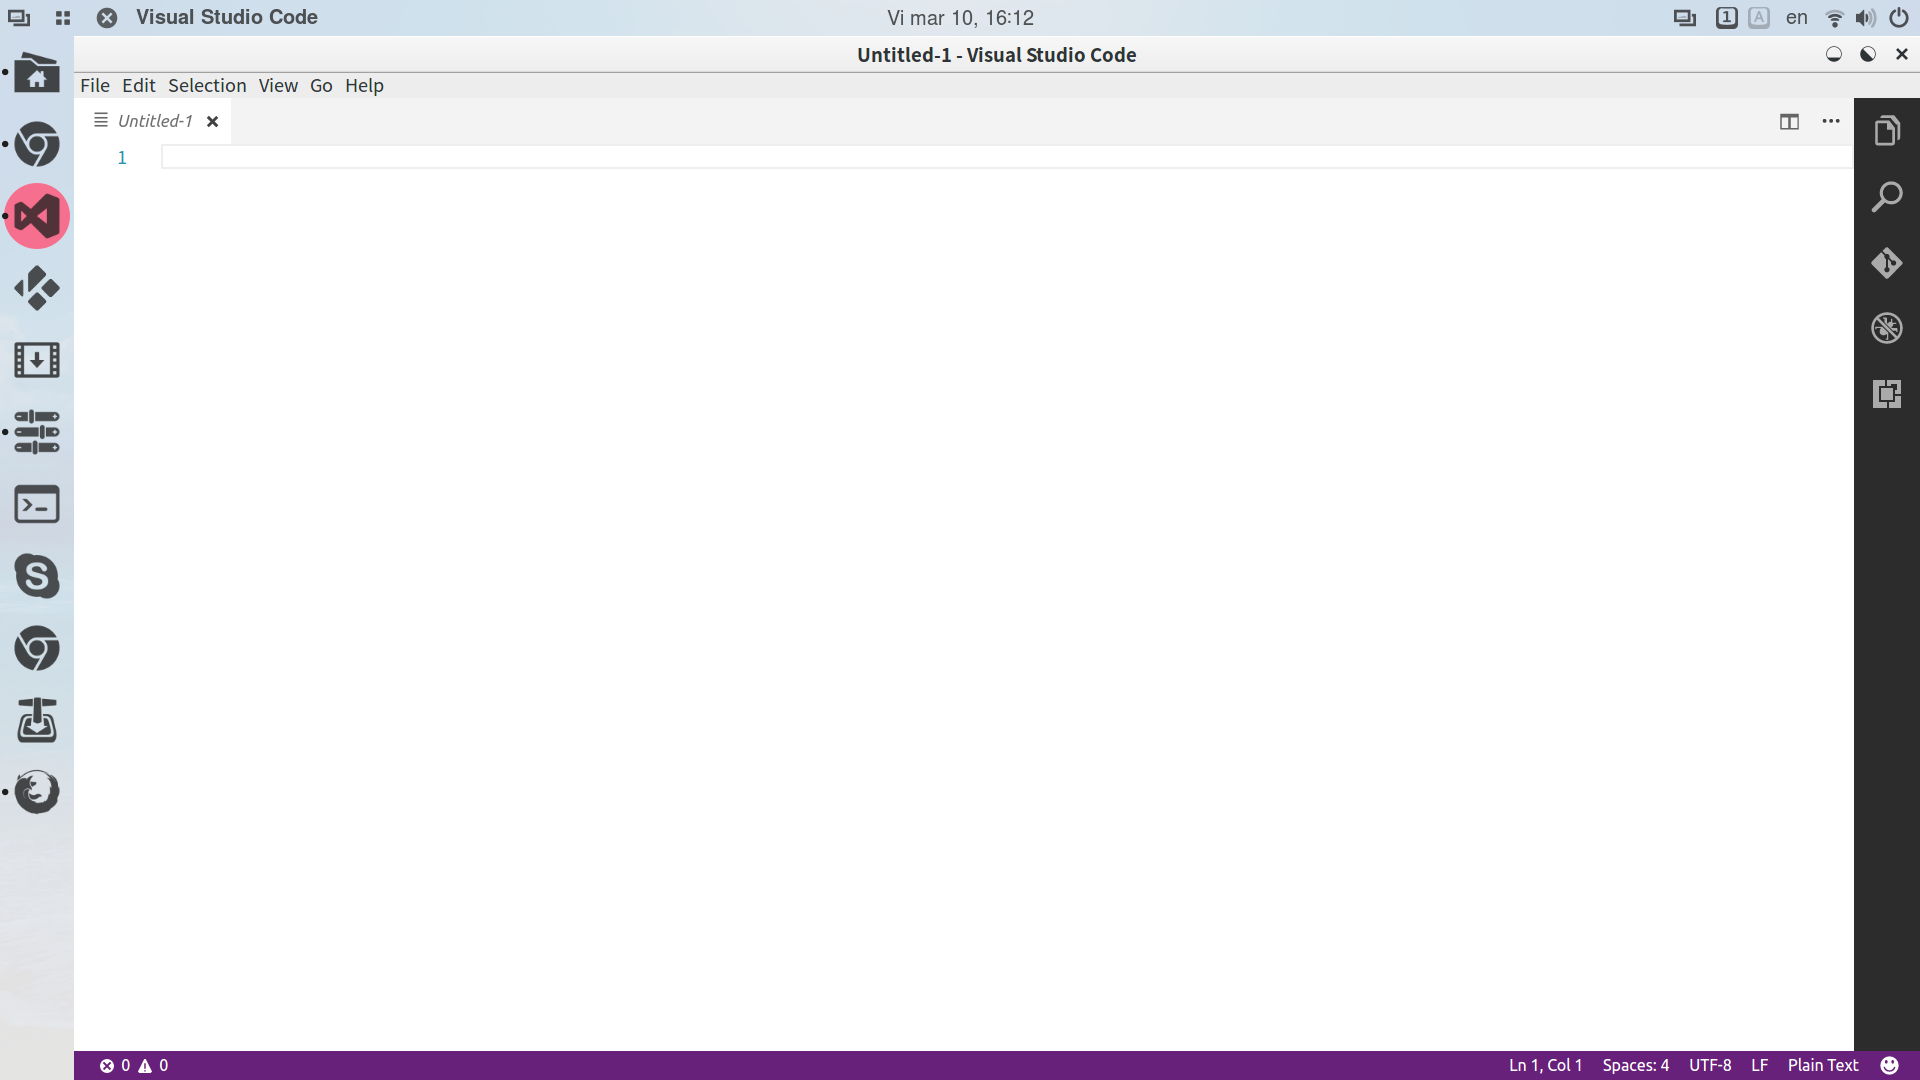
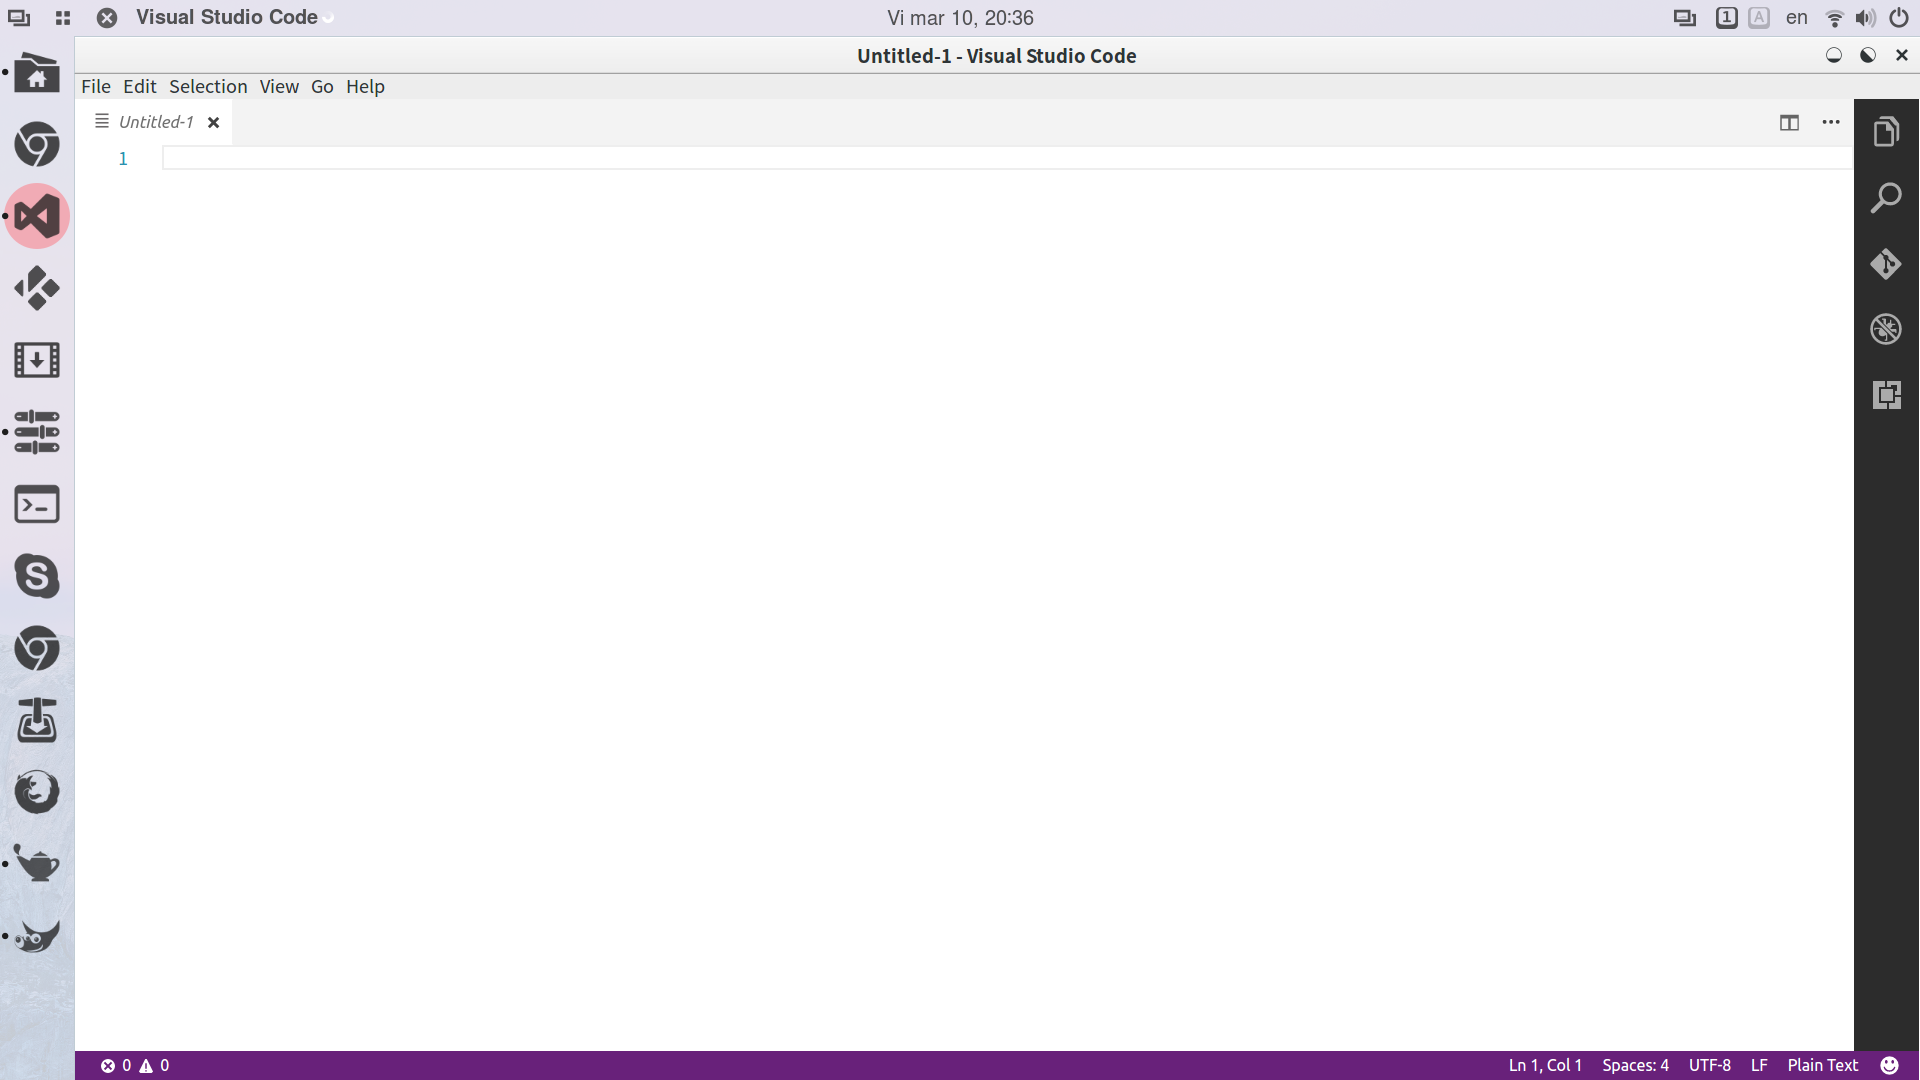
accent colors: pink-reddish

diff --git a/.config/gtk-3.0/gtk.css b/.config/gtk-3.0/gtk.css
@@ -1,235 +1,10 @@
-.window-frame {
-	border-radius: 0;
-	/*border-left: 10px solid #ffbb7c;*/
-/*
-	border-left: 1px solid #e1e1e1;
-	border-right: 1px solid #e1e1e1;
-	border-bottom: 1px solid #e1e1e1;
-*/
-}
-
 .window-frame.maximized {
-
-}
-
-.titlebar {
 	border-radius: 0;
-/*
-	border-left: 1px solid #e1e1e1;
-	border-right: 1px solid #e1e1e1;
-	border-top: 1px solid #e1e1e1;
-*/
-}
-
-.header-bar {
-/*
-  background-image: none;
-*/
-  /*background-color: #F9DC5C;*/
-  /*background-color: rgb(251,255,241);*/
-/*
-  background-color: #70D6FF;
-  box-shadow: none;
-*/
-}
-
-
-/*
- 3C91E6 - bleu de france
- 70D6FF - maya blue
- F9DC5C
- 54eaff
- 27e1fc
- d9ff7c
-d1cfce
-c8c8c5
-5dc4e6
-
-
-.window-frame {
-	border: 20px solid #ccf466;
-	border-radius: 0;
-}
-
-.titlebar {
-	border-left: 20px solid #ccf466;
-	border-right: 20px solid #ccf466;
-}
-
-.header-bar {
-  background-image: none;
-  background-color: #ccf466;
-  box-shadow: none;
-}
-
-
-
-
-.window-frame {
-	border: 20px solid #ffdd77;
-	border-radius: 0;
-}
-
-.titlebar {
-	border-left: 20px solid #ffdd77;
-	border-right: 20px solid #ffdd77;
-}
-
-.header-bar {
-  background-image: none;
-  background-color: #ffdd77;
-  box-shadow: none;
-}
-
-
-.window-frame {
-	border: 20px solid #ffd454;
-	border-radius: 0;
-}
-
-.titlebar {
-	border-top: 20px solid #ffd454;
-	border-left: 20px solid #ffd454;
-	border-right: 20px solid #ffd454;
-}
-
-.header-bar {
-  background-image: none;
-  background-color: #ffd454;
-  box-shadow: none;
-}
-
-
- .window-frame {
-	border: 10px solid #ffd454;
-	border-radius: 0;
-	padding: 4px;
-	margin: 4px;
-}
-
-.titlebar {
-	border-top: 10px solid #ffd454;
-	border-left: 10px solid #ffd454;
-	border-right: 10px solid #ffd454;
-	padding: 4px;
-	margin: 4px;
-}
-
-.header-bar {
-  background-image: none;
-  background-color: #ffd454;
-  box-shadow: none;
-}
-
-
-
-
- .window-frame {
-	border: 10px solid white;
-	border-radius: 0;
-    margin: 10px;
-	padding: 10px;
-}
-
-.titlebar {
-	border-top: 10px solid white;
-	border-left: 10px solid white;
-	border-right: 10px solid white;
-	margin: 10px;
-	padding: 10px;
-}
-
-.header-bar {
-  background-image: none;
-  background-color: white;
-  color: #dddddd;
-  box-shadow: none;
-}
-
-
-
- .window-frame.maximized {
-	border-radius: 0;
-	border: 10px solid black;
-    margin: 10px;
-	padding: 10px;
+	border-left: 1px solid #c0ccd4;
 }
 
 .maximized .titlebar {
-	border-top: 10px solid black;
-	border-left: 10px solid black;
-	border-right: 10px solid black;
-	margin: 10px;
-	padding: 10px;
+	border-radius: 0;
+	border-top: 1px solid #c0ccd4;
+	border-left: 1px solid #c0ccd4;	
 }
-
-
-.window-frame, .window-frame:backdrop {
- box-shadow: 0 0 0 black;
- border-style: none;
- margin: 0;
- border-radius: 0;
-}
-* 
-.window-frame.csd.popup {
-  box-shadow: 0 1px 2px rgba(0, 0, 0, 0.2), 0 0 0 1px rgba(0, 0, 0, 0.13);
-}
-
-.header-bar {
-  background-image: none;
-  background-color: #1e1e1e;
-  color: #dddddd;
-  box-shadow: none;
-}
-
-GtkLabel.title {
-    opacity: 0;
-}
-
-
-
-GtkWindow {
-	border: 10px solid black;
-}
-
-GtkFrame {
-	border: 10px solid black;
-}
-
-.window-frame {
-	border: 10px solid black;
-	box-shadow: none;
-}
-
-.window-frame.titlebar {
-    border-radius: 0;
-	border: 2px solid #1e1e1e;
-	margin: 10px;
-	padding: 10px;
-}
-
-box-shadow: none;
-
-.window-frame.maximized {
-	border: 2px solid #1e1e1e;
-	margin: 10px;
-	padding: 10px;
-}
-
-.window-frame.maximized.titlebar {
-    border-radius: 0;
-	border: 2px solid #1e1e1e;
-	margin: 10px;
-	padding: 10px;
-}
-
-.window .maximized .titlebar {
-    border-radius: 0;
-}
-
-.window .maximized {
-    border-radius: 0;
-    border: 10px solid black;
-}
-* 
-*/

diff --git a/.local/share/gnome-shell/extensions/dash-to-dock@micxgx.gmail.com/stylesheet.css b/.local/share/gnome-shell/extensions/dash-to-dock@micxgx.gmail.com/stylesheet.css
@@ -100,7 +100,7 @@
 
 #dashtodockContainer.running-dots .app-well-app.focused  .overview-icon,
 #dashtodockContainer.dashtodock .app-well-app.focused  .overview-icon {
-    background-color: #F76F8E;
+    background-color: #f1abb5;
     background-image:none;
     /*border: 2px solid rgba(48,48,48,0.50);*/
     border-radius: 40px;
@@ -110,7 +110,7 @@
 }
 
 #dashtodockContainer.dashtodock #dash {
-    background-color: rgba(229,233,236,0.90);
+    background-color: rgba(229,233,236,0.85);
 	/*border: 1px solid rgba(48,48,48,0.75);*/
 }
 

diff --git a/.local/share/themes/slimAdwaita/gnome-shell/gnome-shell.css b/.local/share/themes/slimAdwaita/gnome-shell/gnome-shell.css
@@ -684,7 +684,7 @@ StEntry:insensitive,
 
 #panel {
     background-gradient-direction:none;
-     background-color: rgba(229,233,236,0.90);
+     background-color: rgba(229,233,236,0.85);
     border-top:0px;border-right:0px;border-left:0px;
     font-weight: bold;
     height: 36px;}
